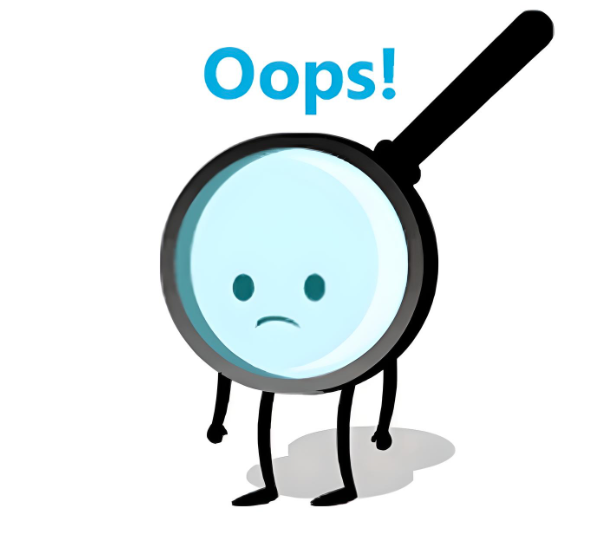
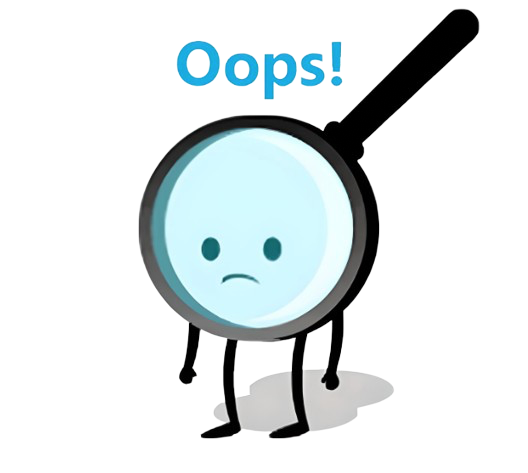
search oops

diff --git a/Frontend/src/pages/Events/Events.jsx b/Frontend/src/pages/Events/Events.jsx
@@ -3,6 +3,7 @@ import { FaArrowRightLong } from "react-icons/fa6";
 import teach from "../../assets/images/Учитель2.jpg";
 import loadingi from "../../assets/images/loading.svg";
 import notfound from "../../assets/images/not-found.jpeg";
+import oops from "../../assets/images/oops.png";
 
 export const Events = () => {
   const [events, setEvents] = useState([]);
@@ -69,7 +70,7 @@ export const Events = () => {
   if (loading) {
     return (
       <div className="loading">
-        <img src={loadingi} alt="" />
+        <img src={loadingi} alt="Loading..." />
       </div>
     );
   }
@@ -77,14 +78,15 @@ export const Events = () => {
   if (error) {
     return (
       <div className="error">
-        <img src={notfound} alt="" />
+        <img src={notfound} alt="Error" />
+        <p>{error}</p>
       </div>
     );
   }
 
   if (events.length === 0) {
     return (
-      <div className="no-product">
+      <div className="no-events">
         <p>На данный момент нет доступных событий.</p>
       </div>
     );
@@ -125,30 +127,34 @@ export const Events = () => {
             <img src={teach} alt="Учитель" className="fairs-image" />
           </div>
         </div>
-        <div className="event__wrapper">
-          {filteredEvents.map((event) => (
-            <div
-              key={event.title}
-              className="event__card"
-              style={{
-                backgroundImage: `url(${
-                  event.image || "/src/assets/images/Mask.png"
-                })`,
-              }}
-            >
-              <h2>{event.title}</h2>
-              <h4>
-                Дата <span>{new Date(event.date).toLocaleDateString()}</span>
-              </h4>
-              <button
-                aria-label={`Смотреть ${event.title}`}
-                onClick={() => openModal(event)}
+        {filteredEvents.length === 0 ? (
+           <center> <img className="oops" src={oops} alt="не нйден" /></center>
+        ) : (
+          <div className="event__wrapper">
+            {filteredEvents.map((event) => (
+              <div
+                key={event.title}
+                className="event__card"
+                style={{
+                  backgroundImage: `url(${
+                    event.image || "/src/assets/images/Mask.png"
+                  })`,
+                }}
               >
-                Смотреть <FaArrowRightLong className="event__btn-icon" />
-              </button>
-            </div>
-          ))}
-        </div>
+                <h2>{event.title}</h2>
+                <h4>
+                  Дата <span>{new Date(event.date).toLocaleDateString()}</span>
+                </h4>
+                <button
+                  aria-label={`Смотреть ${event.title}`}
+                  onClick={() => openModal(event)}
+                >
+                  Смотреть <FaArrowRightLong className="event__btn-icon" />
+                </button>
+              </div>
+            ))}
+          </div>
+        )}
         {isModalOpen && selectedEvent && (
           <div className="modal" onClick={handleOutsideClick}>
             <div className="modal__content">

diff --git a/Frontend/src/pages/Teachers/Teachers.jsx b/Frontend/src/pages/Teachers/Teachers.jsx
@@ -4,6 +4,7 @@ import { IoLogoWhatsapp } from "react-icons/io5";
 import teach from "../../assets/images/teachers.jpg";
 import loadingi from "../../assets/images/loading.svg";
 import notfound from "../../assets/images/not-found.jpeg";
+import oops from "../../assets/images/oops.png"
 
 const formatPhoneNumber = (number) => number.replace(/\D/g, "");
 
@@ -55,14 +56,6 @@ export const Teachers = () => {
     return (
       <div className="error">
         <img src={notfound} alt="Ошибка при загрузке" />
-      </div>
-    );
-  }
-
-  if (filteredTeachers.length === 0) {
-    return (
-      <div className="no-product">
-        <p>На данный момент нет доступных учителей.</p>
       </div>
     );
   }
@@ -129,8 +122,12 @@ export const Teachers = () => {
                   </a>
                 </div>
               ))
+            ) : searchTerm ? (
+                <img className="oops" src={oops} alt="не нйден" />
             ) : (
-              <p className="teachers__no-results">Учителя не найдены</p>
+              <div className="no-product">
+                <p>На данный момент нет доступных учителей.</p>
+              </div>
             )}
           </div>
         </div>

diff --git a/Frontend/src/assets/scss/blocks/Teachers/_teachers.scss b/Frontend/src/assets/scss/blocks/Teachers/_teachers.scss
@@ -165,7 +165,7 @@
       background: $white;
       transition: transform 0.3s ease, box-shadow 0.3s ease;
       width: 280px;
-      height: 440px;
+      height: 420px;
       text-align: center;
 
       &:hover {
@@ -212,7 +212,7 @@
           transform: translate(-50%, -50%);
           opacity: 0;
           transition: opacity 0.3s ease-in-out, transform 0.3s ease-in-out;
-          color: #19a292;
+          color: #17b9a6;
         }
 
         &:hover .whatsapp-icon {

diff --git a/Frontend/src/assets/scss/_generals.scss b/Frontend/src/assets/scss/_generals.scss
@@ -82,3 +82,10 @@ a {
     font-family: $gupter;
   }
 }
+
+.oops{
+  width: 400px;
+  height: 400px;
+  object-fit: contain;
+  margin: 0 auto;
+}
